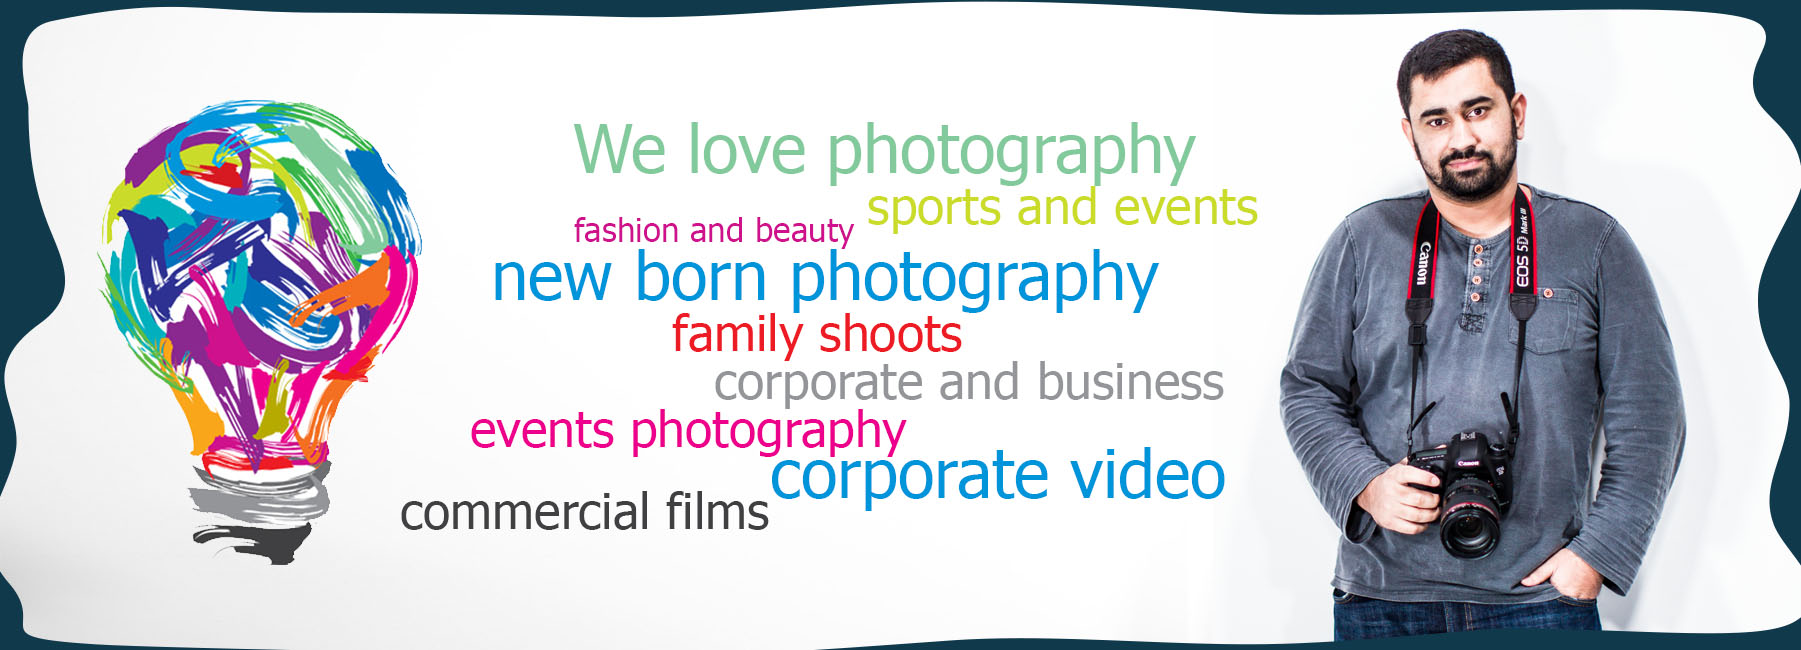
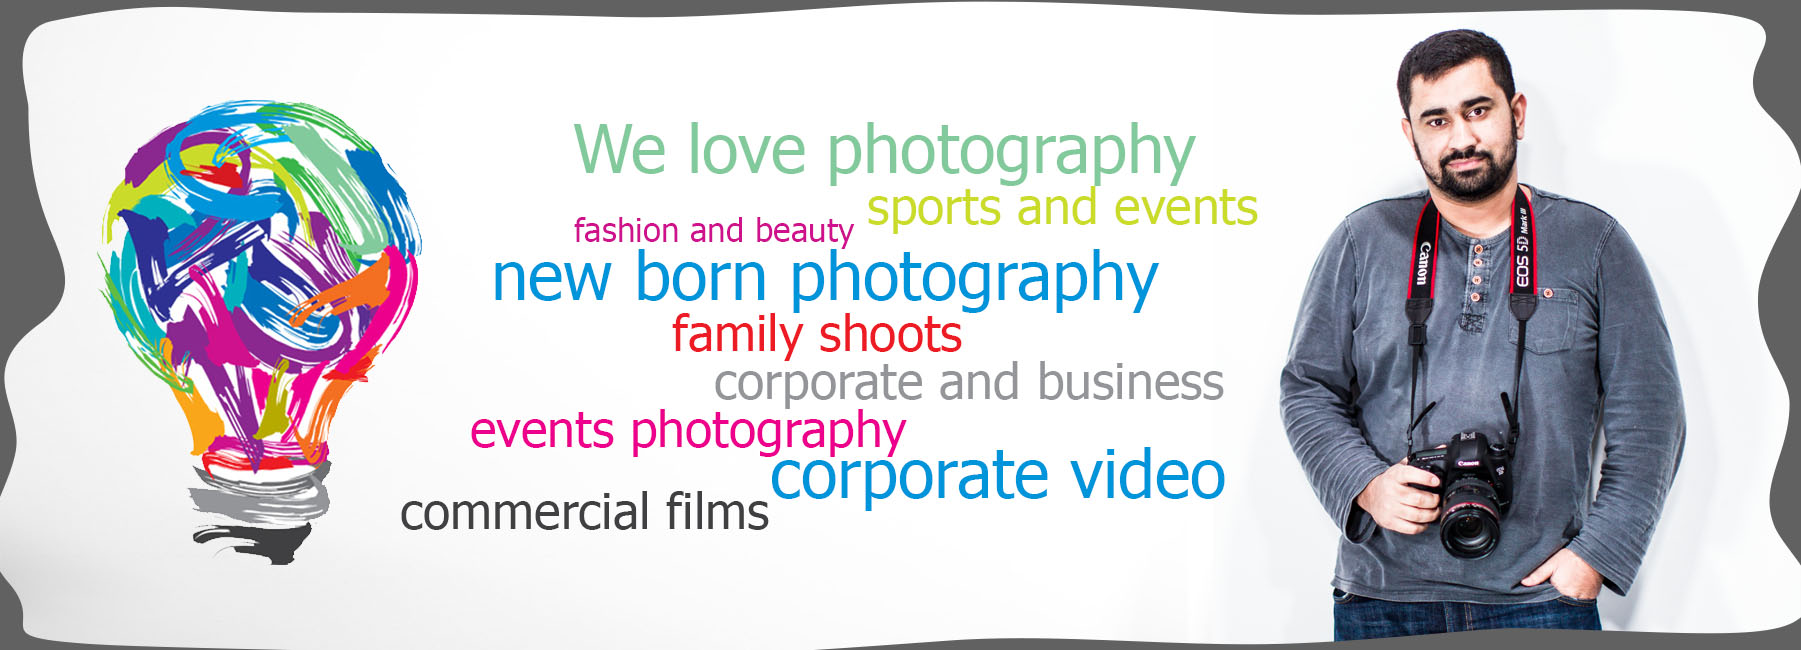
c

diff --git a/css/style.css b/css/style.css
@@ -14,7 +14,7 @@ Project: SolarWind
 */
 
 html, body {
-	background: #11394c;
+	background: #616161;
 	margin: 0;
 	padding: 0;
 	width: 100%;
@@ -849,8 +849,8 @@ ul.gallery-list li:hover a {
 	margin-bottom: 45px;
 }
 .promo-text-box h2 {
-	font-size: 30px;
-	color: #161616;
+	font-size: 25px;
+	color: #777777;
 	margin: 0 0 19px 0;
 	padding-left: 3px;
 }
